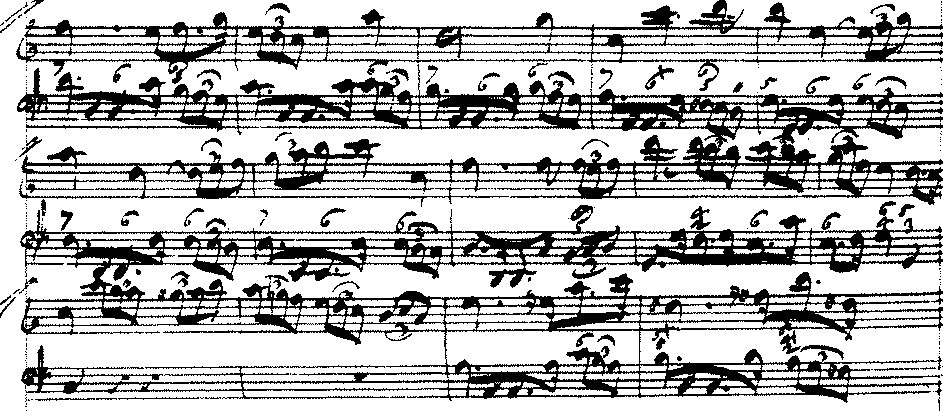
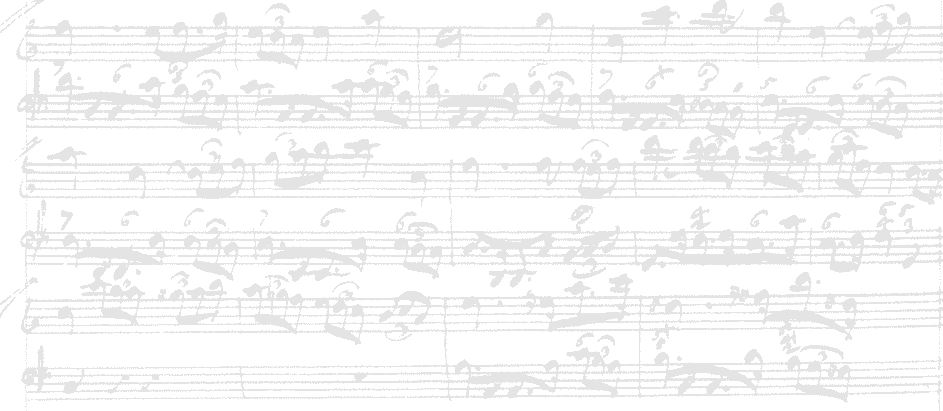
Add new image and small CSS adjustments

Changed region(s): [[0.0, 0.0, 1.0, 0.9927], [0.0308, 0.6715, 0.0615, 0.7007], [0.0308, 0.0, 0.0615, 0.0292]]

diff --git a/app/assets/stylesheets/main.css b/app/assets/stylesheets/main.css
@@ -10,12 +10,8 @@ body {
 
 .page {
   background-image: url("recorder-sonata.png");
-  /*position: fixed;*/
-  left: 0;
-  top: 0;
   width: 100%;
-  /*opacity: 0.15;*/
-  /*height: 100vh;*/
+  opacity: 0.99;
 }
 
 .image {
@@ -102,7 +98,7 @@ p {
 .f-l { float: left; }
 .f-r { float: right; }
 .mt-xlg { margin-top: 5em; }
-.mb-xxlg { margin-bottom: 7.5em; }
+.mb-xxlg { margin-bottom: 8em; }
 .p-sm { padding: 0.5em; }
 .p-lg { padding: 3em; }
 .pt-m { padding-top: 1.5em; }
@@ -115,6 +111,6 @@ p {
 .bgc-fog { background-color: #a7a7a7; }
 .bgc-berry { background-color: #57102c}
 .z-index { z-index: 9; }
-.h-min { min-height: 600px; }
+.h-min { min-height: 800px; }
 
 
